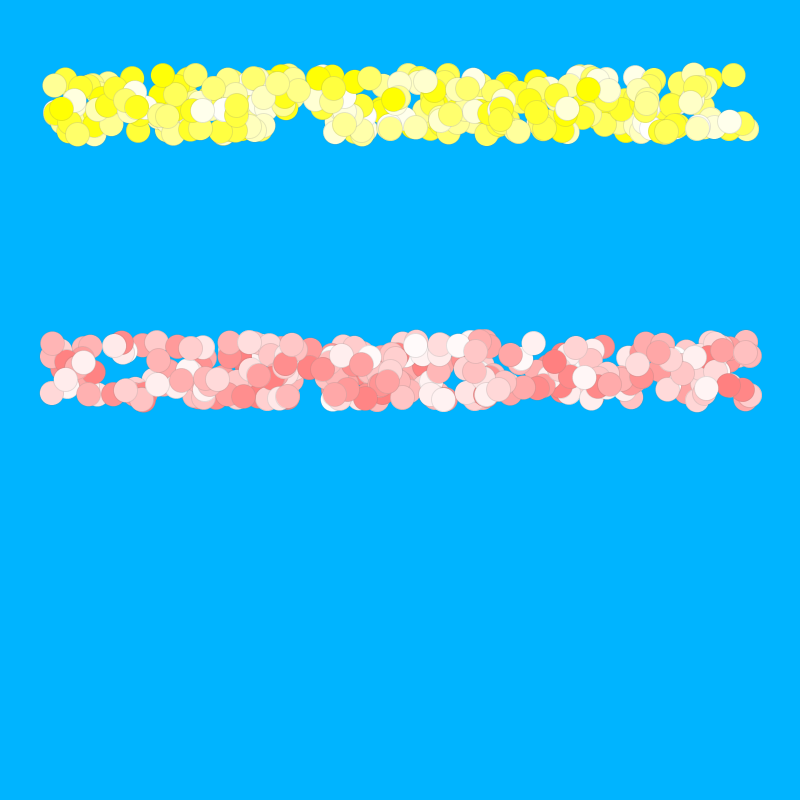
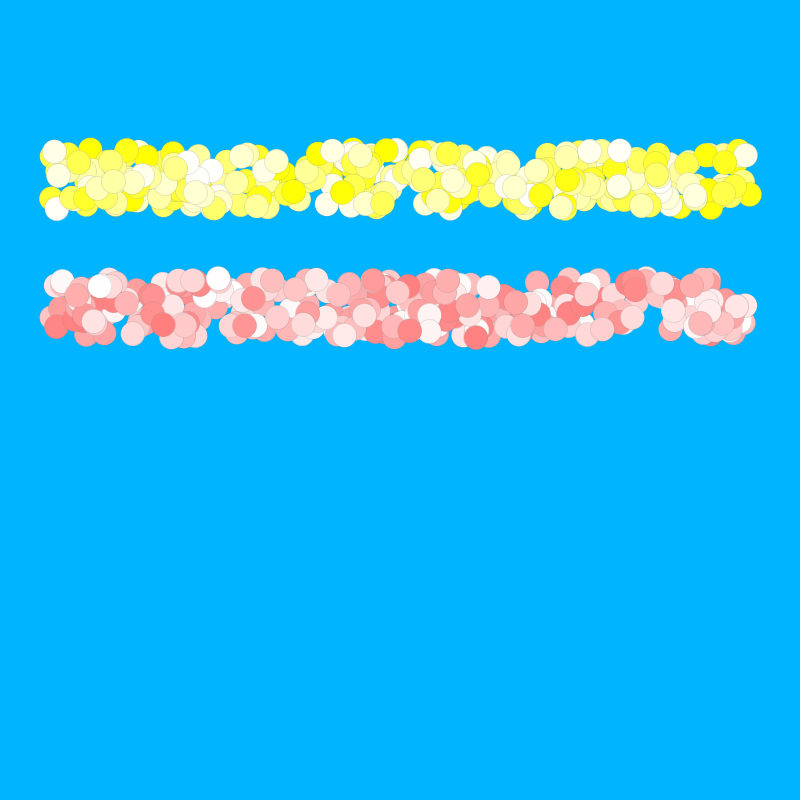
updatee

Changed region(s): [[0.0312, 0.0625, 0.9688, 0.2812], [0.0312, 0.3125, 0.9688, 0.5312]]

diff --git a/node/node15-3/bot.js b/node/node15-3/bot.js
@@ -13,11 +13,12 @@ tweetIt();
 // setInterval(tweetIt, 1000*20);
 
 function tweetIt() {
-  var cmd = 'processing-java --sketch=`pwd`/circles --run';
+  var iname = 'polka_dots'; // circles / polka_dots
+  var cmd = 'processing-java --sketch=`pwd`/' + iname + ' --run';
   exec(cmd, processing);
 
   function processing() {
-    var filename = 'circles/output.png';
+    var filename = iname + '/output.png';
     var params = {
       encoding: 'base64'
     }
@@ -25,13 +26,21 @@ function tweetIt() {
     T.post('media/upload', {media_data: b64 }, uploaded);
 
     function uploaded(err, data, response) {
+      var fs = require('fs');
+      var num;
       var id = data.media_id_string;
-      var tweet = {
-        status: 'p5 image by p5 bot from node.js',
-        media_ids: [id]
-      }
-      T.post('statuses/update', tweet, tweeted);
+      fs.readFile('number.txt', { encoding: 'utf-8' }, function(err, data) {
+        num = parseInt(data);
+        num += 1;
+        fs.writeFile('number.txt', num, function(err, data){});
+        var tweet = {
+          status: 'No.' + num + ': p5 image, "' + iname + '" by p5 bot from node.js',
+          media_ids: [id]
+        }
+        T.post('statuses/update', tweet, tweeted);
+      });
     }
+
     function tweeted(err, data, response) {
       if (err) {
         console.log("Something went wrong!");

diff --git a/node/node15-3/test.js b/node/node15-3/test.js
@@ -1,0 +1,9 @@
+var fs = require('fs');
+fs.readFile('number.txt', { encoding: 'utf-8' }, function (err, data) {
+  var num = parseInt(data);
+  num += 1;
+  console.log(num);
+  fs.writeFile('number.txt', num, function(err, data){});
+});
+
+// fs.writeFile('number.txt', num);
